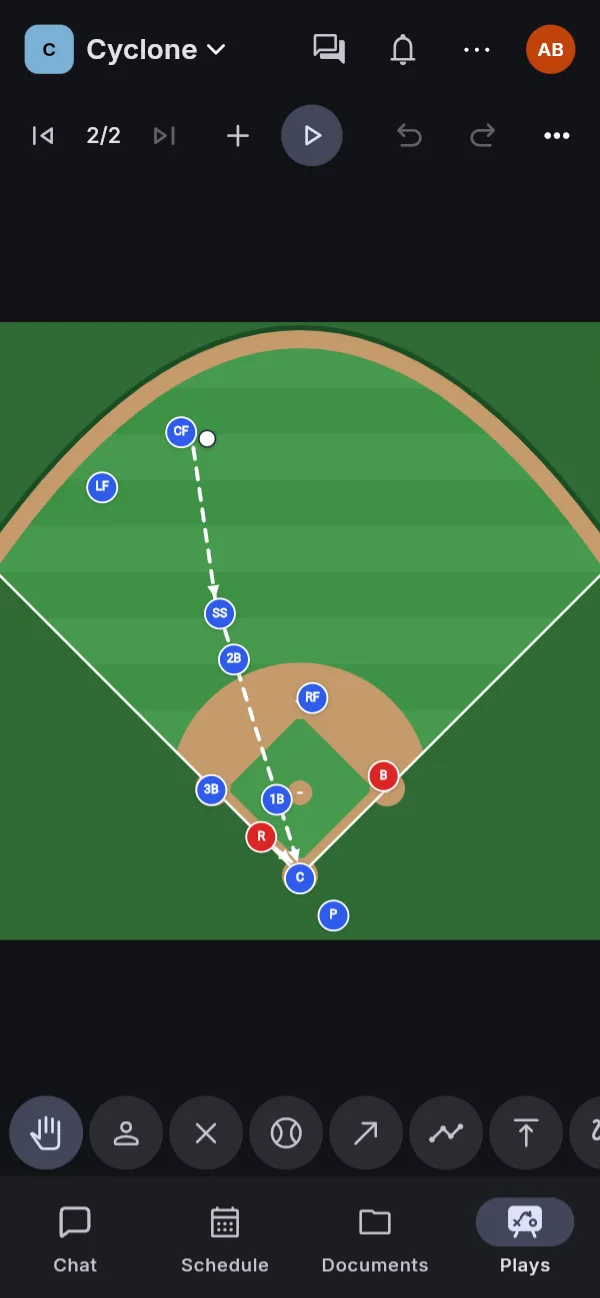
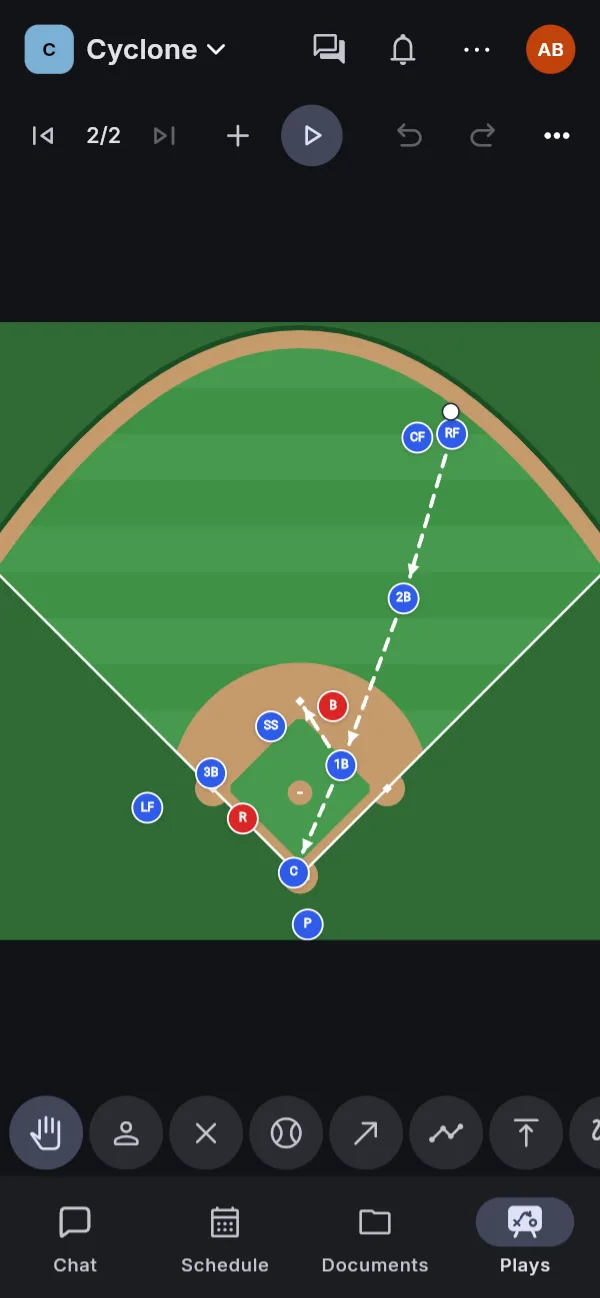
The landing page's baseball play is the owner's relay, and the Plays pair slides on a phone
Cyclone's saved play is now a relay home from right-center, drawn from
the owner's sketch: RF has the ball at the fence with CF beside him and
throws to 2B, the relay; 1B is the cutoff on the line to the plate, and
lets it go home or cuts it and throws to second. SS covers second, LF
backs up third, P backs up home, a runner scores, and the batter heads
for second. Step 1 has the hit and everyone's route; the landing page
shows step 2.

Below 1100 px, where only one phone fits, the Plays pair is a row that
swipes and snaps, the other phone peeking in, with a dot for each (one
small inline script; without it the row still swipes). Pairs' phones are
top-aligned, so the first no longer shows a band of its frame below the
screenshot on a wide screen.

diff --git a/tools/seed/seed.ts b/tools/seed/seed.ts
@@ -581,12 +581,13 @@ async function main() {
 
   // Saved plays (BOARD-4), one on each of the coach's teams for the landing
   // page's two whiteboard screenshots; a team's whiteboard draws any board.
-  // Cyclone's double cut to home: a ball in the left-center gap with a
-  // runner trying to score. Step 1, everyone heads for their spot; step 2,
-  // the relay: SS the lead, 2B trailing 30 feet behind, 1B the cutoff in
-  // front of the plate. Spots are feet from home along a direction (0° is
-  // dead center, negative toward left), as BaseballField.fromHome measures
-  // them in lib/features/plays/domain/board_layout.dart.
+  // Cyclone's relay home from right-center, as the owner drew it: a ball in
+  // the right-center gap with a runner on second. Step 1, everyone heads for
+  // their spot; step 2, the throws: RF to 2B, the relay, to 1B, the cutoff
+  // on the line to the plate, who lets it go home or cuts it and throws to
+  // second for the batter. Spots are feet from home along a direction (0°
+  // is dead center, negative toward left), as BaseballField.fromHome
+  // measures them in lib/features/plays/domain/board_layout.dart.
   const m = (id: string, x: number, y: number, s: string, l = '') => ({ k: 'm', id, x, y, s, ...(l ? { l } : {}) });
   const a = (id: string, t: string, pts: number[]) => ({ k: 'a', id, t, pts });
   const fh = (feet: number, degrees: number): [number, number] => {
@@ -595,44 +596,59 @@ async function main() {
   };
   const on = (id: string, spot: [number, number], s: string, l = '') => m(id, ...spot, s, l);
   const line = (...spots: [number, number][]) => spots.flat();
+  // From one spot to another, stopping short of each player by about a
+  // marker's width, so a throw runs from glove to glove.
+  const throwLine = (from: [number, number], to: [number, number], shortOfTo = 0.035) => {
+    const [dx, dy] = [to[0] - from[0], to[1] - from[1]];
+    const length = Math.hypot(dx, dy);
+    const [ux, uy] = [dx / length, dy / length];
+    return line([from[0] + ux * 0.035, from[1] + uy * 0.035], [to[0] - ux * shortOfTo, to[1] - uy * shortOfTo]);
+  };
   // Where the fielders stand at the pitch, as the whiteboard's defense puts them.
   const start: Record<string, [number, number]> = {
     P: [0.5, 0.7713], C: [0.5, 0.9255], '1B': [0.6474, 0.7196], '2B': [0.5777, 0.6412],
     SS: [0.4223, 0.6412], '3B': [0.3526, 0.7196], LF: [0.2303, 0.3928], CF: [0.5, 0.2617], RF: [0.7697, 0.3928],
   };
-  // Where the double cut puts them, on the line from the ball to the plate.
-  const cut: Record<string, [number, number]> = {
-    P: fh(-38, -40), C: fh(-2, 0), '1B': fh(58, -17), '2B': fh(165, -17),
-    SS: fh(200, -17), '3B': fh(90, -46), LF: fh(318, -27), CF: fh(335, -15), RF: fh(130, 4),
+  // Where they are when the throw comes in: RF at the ball with CF beside
+  // him, 2B out as the relay, 1B on the line from the relay to the plate,
+  // SS covering second, LF backing up third, P backing up home.
+  const relay: Record<string, [number, number]> = {
+    P: fh(-36, -9), C: fh(5, -64), '1B': fh(86, 20.5), '2B': fh(216, 20.5),
+    SS: fh(111, -11), '3B': fh(99, -41), LF: fh(122, -66), CF: fh(331, 15), RF: fh(341, 19),
   };
+  const second = fh(90 * Math.SQRT2, 0);
+  const batter: [number, number] = [0.465, 0.9];
   const fielders = (spots: Record<string, [number, number]>) =>
     Object.entries(spots).map(([l, spot]) => on(l.toLowerCase(), spot, 'team', l));
-  await db.doc('plays/cyclone-double-cut').set({
+  await db.doc('plays/cyclone-relay-home').set({
     groupId: 'cyclone',
     board: 'baseball',
     variant: 'full',
-    title: 'Double cut to home',
-    note: 'Ball in the left-center gap. SS is the lead relay, 2B trails 30 feet behind; 1B cuts in front of the plate. P backs up home, RF covers second.',
+    title: 'Relay home from right-center',
+    note: 'Ball in the right-center gap, runner on second. RF gets it with CF backing him up; 2B goes out as the relay. 1B is the cutoff: let it go home, or cut it and throw to second if the batter tries for it. SS covers second, 3B covers third with LF behind him, and P backs up home.',
     steps: [
       {
         elements: [
           ...fielders(start),
-          on('r', fh(127, 0), 'opponent', 'R'), on('b', [0.465, 0.9], 'opponent', 'B'),
-          on('ball', fh(345, -19), 'ball'),
-          a('hit', 'pass', line(fh(8, -10), fh(330, -19))),
-          ...['CF', 'LF', 'SS', '2B', '1B', 'RF', 'P'].map((l) => a(`to-${l}`, 'run', line(start[l], cut[l]))),
-          a('r-run', 'run', line(fh(127, 0), fh(90, -45), fh(40, -45))),
-          a('b-run', 'run', line([0.465, 0.9], fh(90, 45), fh(95, 40))),
+          on('r', second, 'opponent', 'R'), on('b', batter, 'opponent', 'B'),
+          on('ball', fh(356, 18), 'ball'),
+          a('hit', 'pass', line(fh(8, 14), fh(340, 18))),
+          ...['RF', 'CF', '2B', '1B', 'LF'].map((l) => a(`to-${l}`, 'run', line(start[l], relay[l]))),
+          // Around the batter and the catcher to back up the plate.
+          a('to-P', 'run', line(start.P, [0.55, 0.9], relay.P)),
+          a('r-run', 'run', line(second, fh(90, -45), fh(59, -45))),
+          a('b-run', 'run', line(batter, fh(90, 45), fh(126, 11))),
         ],
       },
       {
         elements: [
-          ...fielders(cut),
-          on('r', fh(40, -45), 'opponent', 'R'), on('b', fh(95, 40), 'opponent', 'B'),
-          on('ball', fh(326, -12), 'ball'),
-          a('relay', 'pass', line(fh(322, -14), fh(212, -17))),
-          a('home', 'pass', line(fh(188, -17), fh(10, -10))),
-          a('r-home', 'run', line(fh(40, -45), fh(12, -32))),
+          ...fielders(relay),
+          on('r', fh(59, -45), 'opponent', 'R'), on('b', fh(126, 11), 'opponent', 'B'),
+          on('ball', fh(356, 18), 'ball'),
+          a('relay', 'pass', throwLine(relay.RF, relay['2B'])),
+          a('cutoff', 'pass', throwLine(relay['2B'], relay['1B'])),
+          a('home', 'pass', throwLine(relay['1B'], relay.C)),
+          a('second', 'pass', throwLine(relay['1B'], second, 0.012)),
         ],
       },
     ],

diff --git a/website/index.html b/website/index.html
@@ -217,18 +217,24 @@
                 <li>Save the plays worth keeping, so the team can look at them anytime.</li>
               </ul>
             </div>
-            <div class="feature-media pair">
-              <div class="phone sm">
-                <picture>
-                  <source srcset="/images/whiteboard-dark.webp" media="(prefers-color-scheme: dark)">
-                  <img src="/images/whiteboard-light.webp" width="600" height="1298" loading="lazy" alt="Plays, the coach's whiteboard: a double cut to home on a baseball diamond. The center fielder has the ball in the left-center gap and throws to the shortstop, the lead relay, with the second baseman trailing behind and the first baseman as the cutoff in front of the plate. A runner in red heads home, the pitcher backs up the catcher, and it's step 2 of 2, with a play button and the tools to move, add, and draw.">
-                </picture>
+            <div class="feature-media pair slider">
+              <div class="slides" role="region" aria-roledescription="carousel" aria-label="Plays on the whiteboard" tabindex="0">
+                <div class="phone sm" role="group" aria-roledescription="slide" aria-label="Baseball">
+                  <picture>
+                    <source srcset="/images/whiteboard-dark.webp" media="(prefers-color-scheme: dark)">
+                    <img src="/images/whiteboard-light.webp" width="600" height="1298" loading="lazy" alt="Plays, the coach's whiteboard: a relay home from right-center on a baseball diamond. The right fielder has the ball at the fence, the center fielder beside him, and throws to the second baseman, the relay. The first baseman is the cutoff on the line to the plate: the throw goes home, or he cuts it and throws to second. A runner in red heads home and the batter heads for second; the shortstop covers second, the left fielder backs up third, and the pitcher backs up the catcher. It's step 2 of 2, with a play button and the tools to move, add, and draw.">
+                  </picture>
+                </div>
+                <div class="phone sm" role="group" aria-roledescription="slide" aria-label="Basketball">
+                  <picture>
+                    <source srcset="/images/whiteboard-basketball-dark.webp" media="(prefers-color-scheme: dark)">
+                    <img src="/images/whiteboard-basketball-light.webp" width="600" height="1298" loading="lazy" alt="A pick and roll on a basketball half court: the offense in blue and the defense in red, the center coming up to set a screen for the point guard, who dribbles to the right off it, step 1 of 2.">
+                  </picture>
+                </div>
               </div>
-              <div class="phone sm">
-                <picture>
-                  <source srcset="/images/whiteboard-basketball-dark.webp" media="(prefers-color-scheme: dark)">
-                  <img src="/images/whiteboard-basketball-light.webp" width="600" height="1298" loading="lazy" alt="A pick and roll on a basketball half court: the offense in blue and the defense in red, the center coming up to set a screen for the point guard, who dribbles to the right off it, step 1 of 2.">
-                </picture>
+              <div class="slider-dots" hidden>
+                <button type="button" aria-label="Show the baseball play" aria-current="true"></button>
+                <button type="button" aria-label="Show the basketball play" aria-current="false"></button>
               </div>
             </div>
           </li>
@@ -403,5 +409,30 @@
       <p>© 2026 Battleplan · <a href="mailto:support@getbattleplan.app">support@getbattleplan.app</a></p>
     </div>
   </footer>
+  <script>
+    // The Plays pair slides on a screen too narrow for both phones
+    // (site.css): a dot for each, the one showing marked. Without this, it
+    // still swipes.
+    for (const slider of document.querySelectorAll('.slider')) {
+      const slides = slider.querySelector('.slides');
+      const phones = [...slides.children];
+      const dots = [...slider.querySelectorAll('.slider-dots button')];
+      const still = matchMedia('(prefers-reduced-motion: reduce)');
+      const centerOf = (phone) => phone.offsetLeft + phone.offsetWidth / 2;
+      dots.forEach((dot, i) => dot.addEventListener('click', () => slides.scrollTo({
+        left: centerOf(phones[i]) - slides.clientWidth / 2,
+        behavior: still.matches ? 'auto' : 'smooth',
+      })));
+      const mark = () => {
+        const middle = slides.scrollLeft + slides.clientWidth / 2;
+        const distance = (phone) => Math.abs(centerOf(phone) - middle);
+        const showing = phones.indexOf(phones.reduce((a, b) => (distance(b) < distance(a) ? b : a)));
+        dots.forEach((dot, i) => dot.setAttribute('aria-current', String(i === showing)));
+      };
+      slides.addEventListener('scroll', mark, { passive: true });
+      slider.querySelector('.slider-dots').hidden = false;
+      mark();
+    }
+  </script>
 </body>
 </html>

diff --git a/website/site.css b/website/site.css
@@ -188,11 +188,48 @@ section { padding: 56px 0; }
   .feature:nth-child(even) .feature-media { order: -1; }
   .feature-list { gap: 96px; }
 }
-.feature-media { display: flex; justify-content: center; gap: 16px; }
+/* Top-aligned: a pair's second phone sits lower, and a stretched first
+   one would show a band of its frame below the screenshot. */
+.feature-media { display: flex; justify-content: center; align-items: flex-start; gap: 16px; }
 .feature-media .phone + .phone { display: none; }
 @media (min-width: 1100px) {
   .feature-media .phone + .phone { display: block; margin-top: 40px; }
   .feature-media.pair .phone { width: 250px; }
+}
+
+/* A pair that slides where only one phone fits (Plays): each phone snaps
+   to the middle with the other peeking in at the side, and a dot for each
+   below (the script at the end of index.html). Side by side from 1100px. */
+.feature-media.slider { flex-direction: column; align-items: stretch; gap: 0; min-width: 0; }
+.slides { display: flex; justify-content: center; align-items: flex-start; gap: 16px; }
+/* Over the slides' shadow room, so they take the taps there. */
+.slider-dots { position: relative; display: flex; justify-content: center; gap: 4px; margin-top: 4px; }
+.slider-dots[hidden] { display: none; }
+.slider-dots button {
+  width: 36px; height: 36px; padding: 0; border: 0; border-radius: 50%;
+  background: none; cursor: pointer; display: grid; place-items: center;
+}
+.slider-dots button::before {
+  content: ""; width: 8px; height: 8px; border-radius: 50%;
+  background: var(--border); transition: background-color 0.2s, transform 0.2s;
+}
+.slider-dots button[aria-current="true"]::before { background: var(--brand); transform: scale(1.25); }
+@media (max-width: 1099px) {
+  .feature-media.slider .phone + .phone { display: block; }
+  .slides {
+    position: relative; justify-content: flex-start;
+    overflow-x: auto; overscroll-behavior-x: contain;
+    scroll-snap-type: x mandatory; scrollbar-width: none;
+    /* Room for the phones' shadows, which a scroller clips, taken back
+       from the space around it. */
+    padding: 24px calc(50% - min(130px, 36vw)) 44px;
+    margin: -20px 0 -32px;
+  }
+  .slides::-webkit-scrollbar { display: none; }
+  .slides .phone { margin: 0; scroll-snap-align: center; }
+}
+@media (min-width: 1100px) {
+  .slider-dots { display: none; }
 }
 
 .switch-note { margin: 14px 0 0; color: var(--muted); }

diff --git a/docs/ARCHITECTURE.md b/docs/ARCHITECTURE.md
@@ -1685,7 +1685,7 @@ What exists in the code today, and where. This section is updated with every cha
 | Import-boundary check | `tools/check_imports.sh` |
 | Coverage gate | `tools/check_coverage.dart` (after `flutter test --coverage`), `functions/vitest.config.ts` (`npm run emulators:coverage`): at least 80% of lines in the domain and data layers, in CI (D52) |
 | App icons and splash | `assets/brand/`, `tools/brand_icons.sh`, settings in `pubspec.yaml`: the flag-and-B mark on `#2F5BEA` for Android (adaptive and Android 12 splash), iOS, and the web (D53) |
-| Website and hosting | `website/`, `tools/build_hosting.sh`, `hosting/well-known/`, `firebase.json` | Static pages (no scripts, cookies, or third-party requests): `/`, `/support`, `/privacy`, `/terms` (in effect since 2026-10-13, task 121), `/delete-account`, `404`, with light and dark mode, real screenshots from the app on local emulators, favicon, Open Graph image, `robots.txt` (crawlers may reach `/app/` so they see its noindex), and `sitemap.xml`; store badges are in the pages but off until task 130 (WEB-1, WEB-2, WEB-5). `tools/build_hosting.sh dev\|prod` copies the site to `build/hosting/` (without its README), builds Flutter web with `--wasm --base-href /app/` into `build/hosting/app/`, and copies `.well-known` from `hosting/well-known/<flavor>/` (validated JSON; `APPLE_TEAM_ID` fills the AASA). `firebase.json` serves `build/hosting` with `cleanUrls`, rewrites `/app/**` to the app, 302-redirects `/join/:code`, `/activate`, and `/g/**` into `/app` keeping paths and queries, sends `noindex` and `no-cache` for the app and a year's cache for hashed files (WEB-3, WEB-4, D40). Links: `LinkService` (`lib/core/links.dart`) and Functions `links` build `/app/...` URLs, keep invites short (`/join/<CODE>`), and use `/app/activate` for email sign-in; the router strips a leading `/app` from Universal Links and App Links; the Android intent filter matches `/app/`. Web push: `firebase-messaging-sw.js` lives under `/app/` with the `/app/` scope and handles taps itself, opening the route in an app tab or a new one, never a website tab on the same origin (NOTIF-6); signing out without notification permission skips token deletion. Checked on dev: every page, rewrite, and redirect; a short invite link opened signed out in a browser; a setup email continuing to `/app/activate`; short and `/app` invite links opening the Android app (App Links verified) |
+| Website and hosting | `website/`, `tools/build_hosting.sh`, `hosting/well-known/`, `firebase.json` | Static pages (no cookies or third-party requests; one small inline script gives the landing page's Plays slider its dots): `/`, `/support`, `/privacy`, `/terms` (in effect since 2026-10-13, task 121), `/delete-account`, `404`, with light and dark mode, real screenshots from the app on local emulators, favicon, Open Graph image, `robots.txt` (crawlers may reach `/app/` so they see its noindex), and `sitemap.xml`; store badges are in the pages but off until task 130 (WEB-1, WEB-2, WEB-5). `tools/build_hosting.sh dev\|prod` copies the site to `build/hosting/` (without its README), builds Flutter web with `--wasm --base-href /app/` into `build/hosting/app/`, and copies `.well-known` from `hosting/well-known/<flavor>/` (validated JSON; `APPLE_TEAM_ID` fills the AASA). `firebase.json` serves `build/hosting` with `cleanUrls`, rewrites `/app/**` to the app, 302-redirects `/join/:code`, `/activate`, and `/g/**` into `/app` keeping paths and queries, sends `noindex` and `no-cache` for the app and a year's cache for hashed files (WEB-3, WEB-4, D40). Links: `LinkService` (`lib/core/links.dart`) and Functions `links` build `/app/...` URLs, keep invites short (`/join/<CODE>`), and use `/app/activate` for email sign-in; the router strips a leading `/app` from Universal Links and App Links; the Android intent filter matches `/app/`. Web push: `firebase-messaging-sw.js` lives under `/app/` with the `/app/` scope and handles taps itself, opening the route in an app tab or a new one, never a website tab on the same origin (NOTIF-6); signing out without notification permission skips token deletion. Checked on dev: every page, rewrite, and redirect; a short invite link opened signed out in a browser; a setup email continuing to `/app/activate`; short and `/app` invite links opening the Android app (App Links verified) |
 | CI and deploys | `.github/workflows/ci.yml` (checks on every push; deploys Firestore rules and hosting to dev on every push to `main`); `release-dev.yml` and `release-prod.yml` (Release to dev and Release to prod, started by hand, through `release.yml`: rules, indexes, Storage rules, Functions, and Hosting once CI has passed). All keyless through Workload Identity Federation set up by `tools/setup_github_deploys.sh dev|prod` |
 | Dev web app | https://battleplan-dev-ecce4.web.app (Firebase Hosting on the dev project) |
 | App Links | `web/.well-known/assetlinks.json`, the `autoVerify` intent filter in `AndroidManifest.xml`, `appLinkHost` per flavor in `build.gradle.kts` |

diff --git a/website/README.md b/website/README.md
@@ -1,6 +1,6 @@
 # Website
 
-The static website at the root of `getbattleplan.app` (SPEC §4.3 WEB-1 to WEB-5, ARCH §6.6, D40; ROADMAP tasks 175, 176, 179). Plain HTML and CSS: no framework, no build step, no scripts, no cookies, no analytics or third-party requests. The Flutter web app is served next to it under `/app/`.
+The static website at the root of `getbattleplan.app` (SPEC §4.3 WEB-1 to WEB-5, ARCH §6.6, D40; ROADMAP tasks 175, 176, 179). Plain HTML and CSS: no framework, no build step, no cookies, no analytics or third-party requests. The one script, inline at the end of `index.html`, gives the Plays slider its dots; without it the slider still swipes. The Flutter web app is served next to it under `/app/`.
 
 ## Files
 
@@ -25,6 +25,7 @@ Hosting serves `support.html` at `/support` because `firebase.json` sets `cleanU
 - Keep the page `<title>`, `description`, `og:*`, and `twitter:*` tags in step when you change a page's purpose.
 - Images: give every `<img>` a `width`, `height`, and real `alt` text (or `alt=""` when decorative). Use `<picture>` with a `prefers-color-scheme: dark` source for screenshots. Keep `images/` under about 2 MB.
 - Text and UI paths should match the app's English strings (`lib/l10n/app_en.arb`), for example **Settings** → **Delete account**.
+- A pair of phones (`feature-media pair`) shows both side by side from 1100 px and only the first below that. Add `slider`, with the phones in a `slides` div and a `slider-dots` div after it, as the Plays pair has, to let narrower screens swipe between them.
 
 ## Store badges
 
@@ -48,7 +49,7 @@ The screenshots are real captures of the web app with the seeded sample teams (T
 | `poll` | `rachel@example.com` | Rally Possums' tournament poll |
 | `documents` | `coach@example.com` | Thunder's documents |
 | `youth` | `claire@example.com` | Cyclone's practice, answering for Luke and Alex |
-| `whiteboard` | `coach@example.com` | Cyclone: **Plays** → More → **Saved plays** → **Double cut to home** → More → **Put on the whiteboard** → **Next step** (step 2 of 2, the relay lined up) |
+| `whiteboard` | `coach@example.com` | Cyclone: **Plays** → More → **Saved plays** → **Relay home from right-center** → More → **Put on the whiteboard** → **Next step** (step 2 of 2, the throws: RF to 2B, the relay, to 1B, the cutoff) |
 | `whiteboard-basketball` | `coach@example.com` | Thunder: **Plays** → More → **Saved plays** → **Pick and roll** → More → **Put on the whiteboard**, in a new sign-in, so Cyclone's whiteboard doesn't carry over |
 
 1. Start the emulators **without functions** (`firebase emulators:start --only auth,firestore,storage`), so the seeded events don't post cards to the chats or send notifications. Then seed them (DEVELOPMENT.md, `npm --prefix tools/seed run seed`). Seed again before each run: opening a chat marks it read.

diff --git a/docs/ROADMAP.md b/docs/ROADMAP.md
@@ -255,6 +255,7 @@ SPEC PLAYER-12 and Q18, ARCH §6.2, §6.3, and D63. The owner asked to keep play
 282. ✅ A more compact chat, like GroupMe's, at the owner's request (2026-10-16, SPEC CHAT-1). *Each message is its own bubble, with the name and time inside it at the top of a person's run (just the time on mine), photos inside the bubble with the caption, the avatar level with the bubble, less space between messages, and date separators as small pills. One-line bubbles stay 48 tall, a full tap target.*
 283. ✅ Messages laid out and set as iMessage's, at the owner's request (2026-10-16, SPEC CHAT-1, §4.2, §7.3). *Bubbles fit their text (the longest line sets the width) and grow to about four fifths of the chat's width before wrapping, so others' messages sit to the left and mine to the right; a direct conversation drops the photo and name beside the other person's messages. Message text is 17 points with iMessage's tighter spacing, in San Francisco in the iPhone, iPad, and Mac apps; Apple licenses it only for its own platforms, so the web app and Android keep Inter, tracked to match.*
 284. ✅ A bigger whiteboard on a phone, at the owner's request (2026-10-16, SPEC BOARD-1, BOARD-2, ARCH §6.14). *The board runs the screen's width under one bar: the step's controls (or what to do with the picked player), undo, redo, and More, which holds Save to plays, New board, Saved plays, and whatever else has no room; the tools below are a finger's size, no more. The baseball board is cut to the fence, so the fence runs to the board's edges and the field is drawn about a third bigger in a phone's browser, while players, arrows, and text keep their size. A drag moves a player without picking it, so the step's controls stay put. A saved play runs a phone's width too, its notes below.*
+285. ✅ The landing page's baseball play is the owner's, and its Plays pair slides on a phone, at the owner's request (2026-10-16, SPEC WEB-1). *Cyclone's play is now a relay home from right-center, drawn from the owner's sketch: RF has the ball at the fence with CF beside him and throws to 2B, the relay; 1B is the cutoff on the line to the plate, and lets it go home or cuts it and throws to second; SS covers second, LF backs up third, P backs up home, a runner scores, and the batter heads for second. Below 1100 px, where only one phone fits, the baseball and basketball phones are a row that swipes and snaps, the other phone peeking in, with a dot for each. Pairs' phones are top-aligned, so the first no longer shows a band of its frame below the screenshot on a wide screen.*
 
 ## Go-live in six phases
 

diff --git a/docs/DEVELOPMENT.md b/docs/DEVELOPMENT.md
@@ -22,7 +22,7 @@ Everything runs against the Firebase Emulator Suite under the project ID `demo-b
    npm --prefix tools/seed run seed
    ```
 
-   It creates three teams (Thunder, adult softball players; Cyclone, kids' soccer; and Rally Possums, kids' basketball), with common American names and TV characters for people, parents with players on two teams, adults linked to their own players, a pending player to approve, events, RSVPs, polls, documents, two saved plays (Cyclone's double cut to home on the diamond, Thunder's pick and roll on the half court, for the landing page's two whiteboard screenshots), messages, and a direct conversation between Andy Bernard and Claire Dunphy (read by both, so Messages shows it with nothing unread). These are also the landing page's screenshots (`website/README.md`). Every password is `password`:
+   It creates three teams (Thunder, adult softball players; Cyclone, kids' soccer; and Rally Possums, kids' basketball), with common American names and TV characters for people, parents with players on two teams, adults linked to their own players, a pending player to approve, events, RSVPs, polls, documents, two saved plays (Cyclone's relay home from right-center on the diamond, Thunder's pick and roll on the half court, for the landing page's two whiteboard screenshots), messages, and a direct conversation between Andy Bernard and Claire Dunphy (read by both, so Messages shows it with nothing unread). These are also the landing page's screenshots (`website/README.md`). Every password is `password`:
 
    | Email | Who |
    |---|---|
